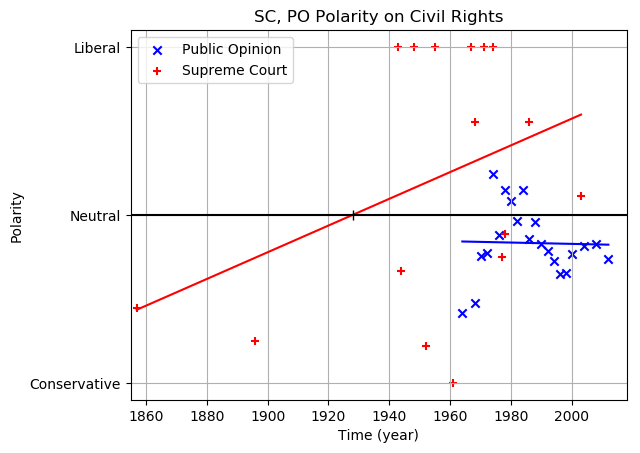
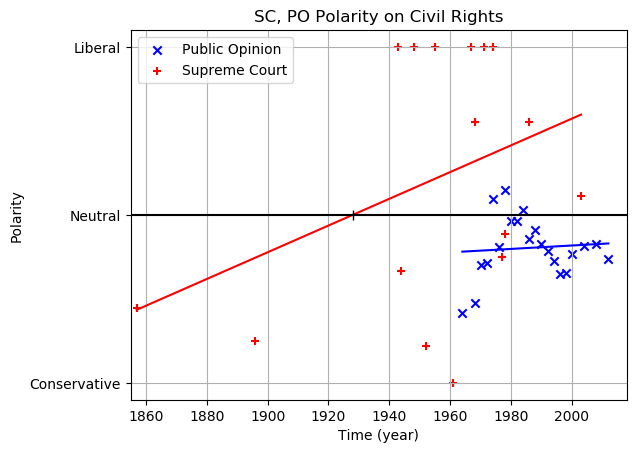
updated plot

Changed region(s): [[0.7188, 0.4018, 0.9062, 0.6181], [0.9375, 0.5254, 0.9688, 0.5563], [0.75, 0.3709, 0.7812, 0.4018]]

diff --git a/keywords_to_id.py b/keywords_to_id.py
@@ -84,7 +84,7 @@ civil_rights_ind=[2488,
 ]
 
 civil_rights_resp_conv={
-    'VCF0216': {i:i for i in range(97)}, #polarity unclear as HOT/COLD is hard to judge
+    'VCF0216': {i:i-48 for i in range(97)},
     'VCF0517': {1:+1,7:-1},
     'VCF0518': {1:+1,7:-1},
     'VCF0830': {1:+1,7:-1,9:0},
